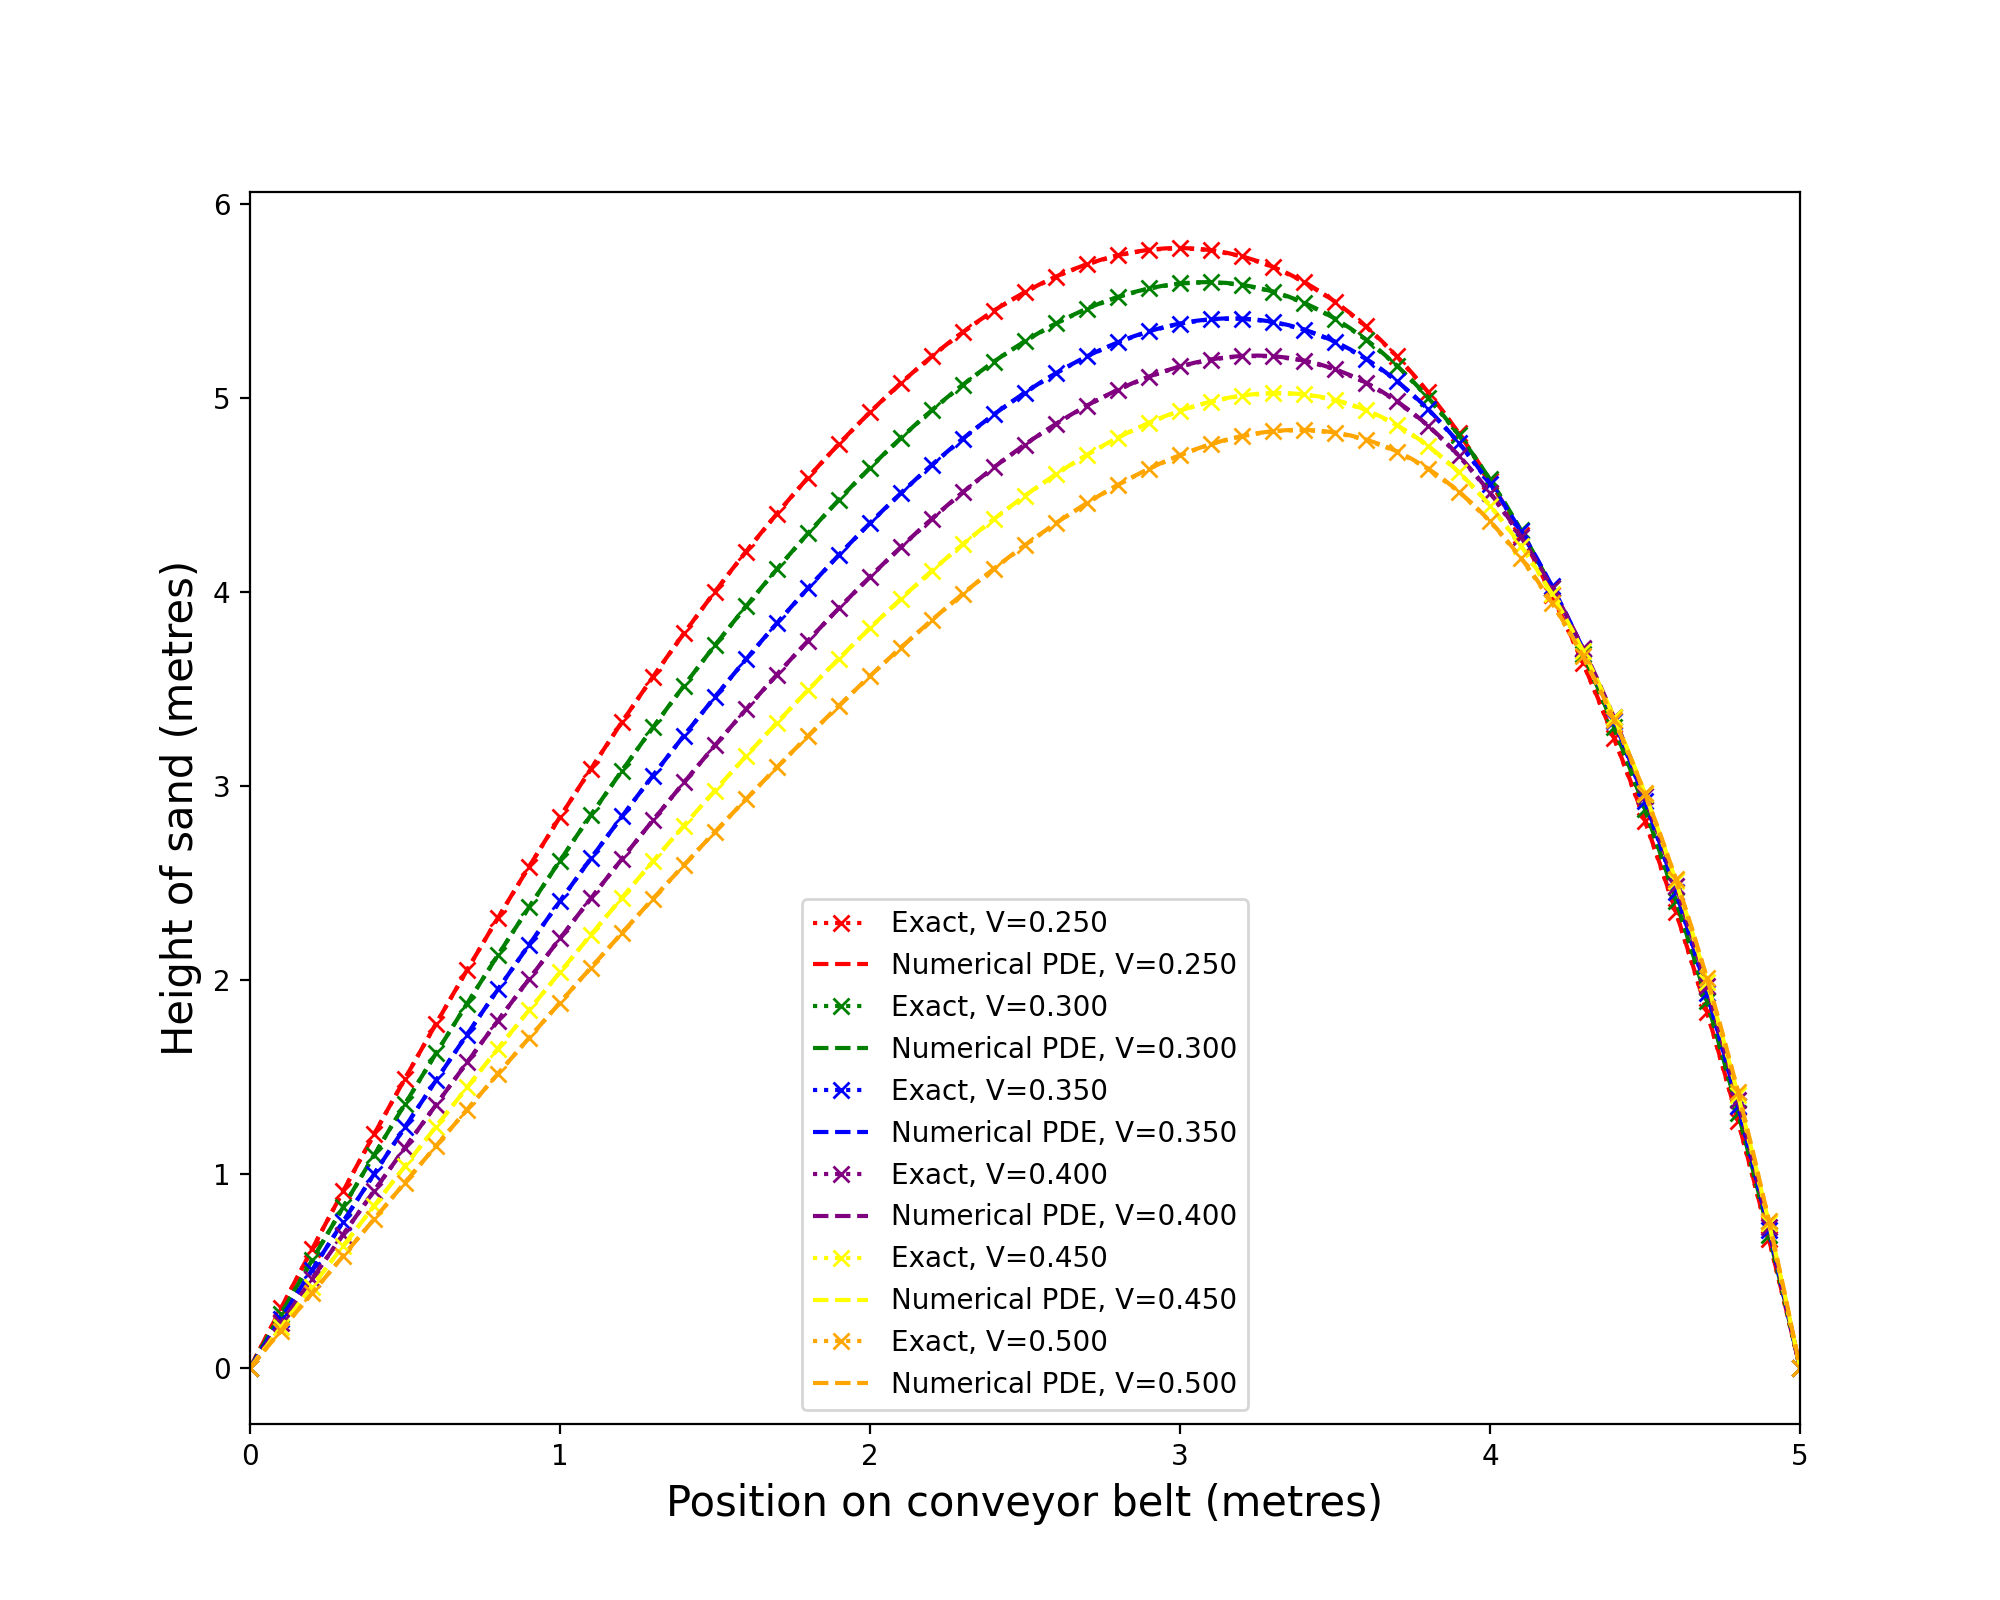
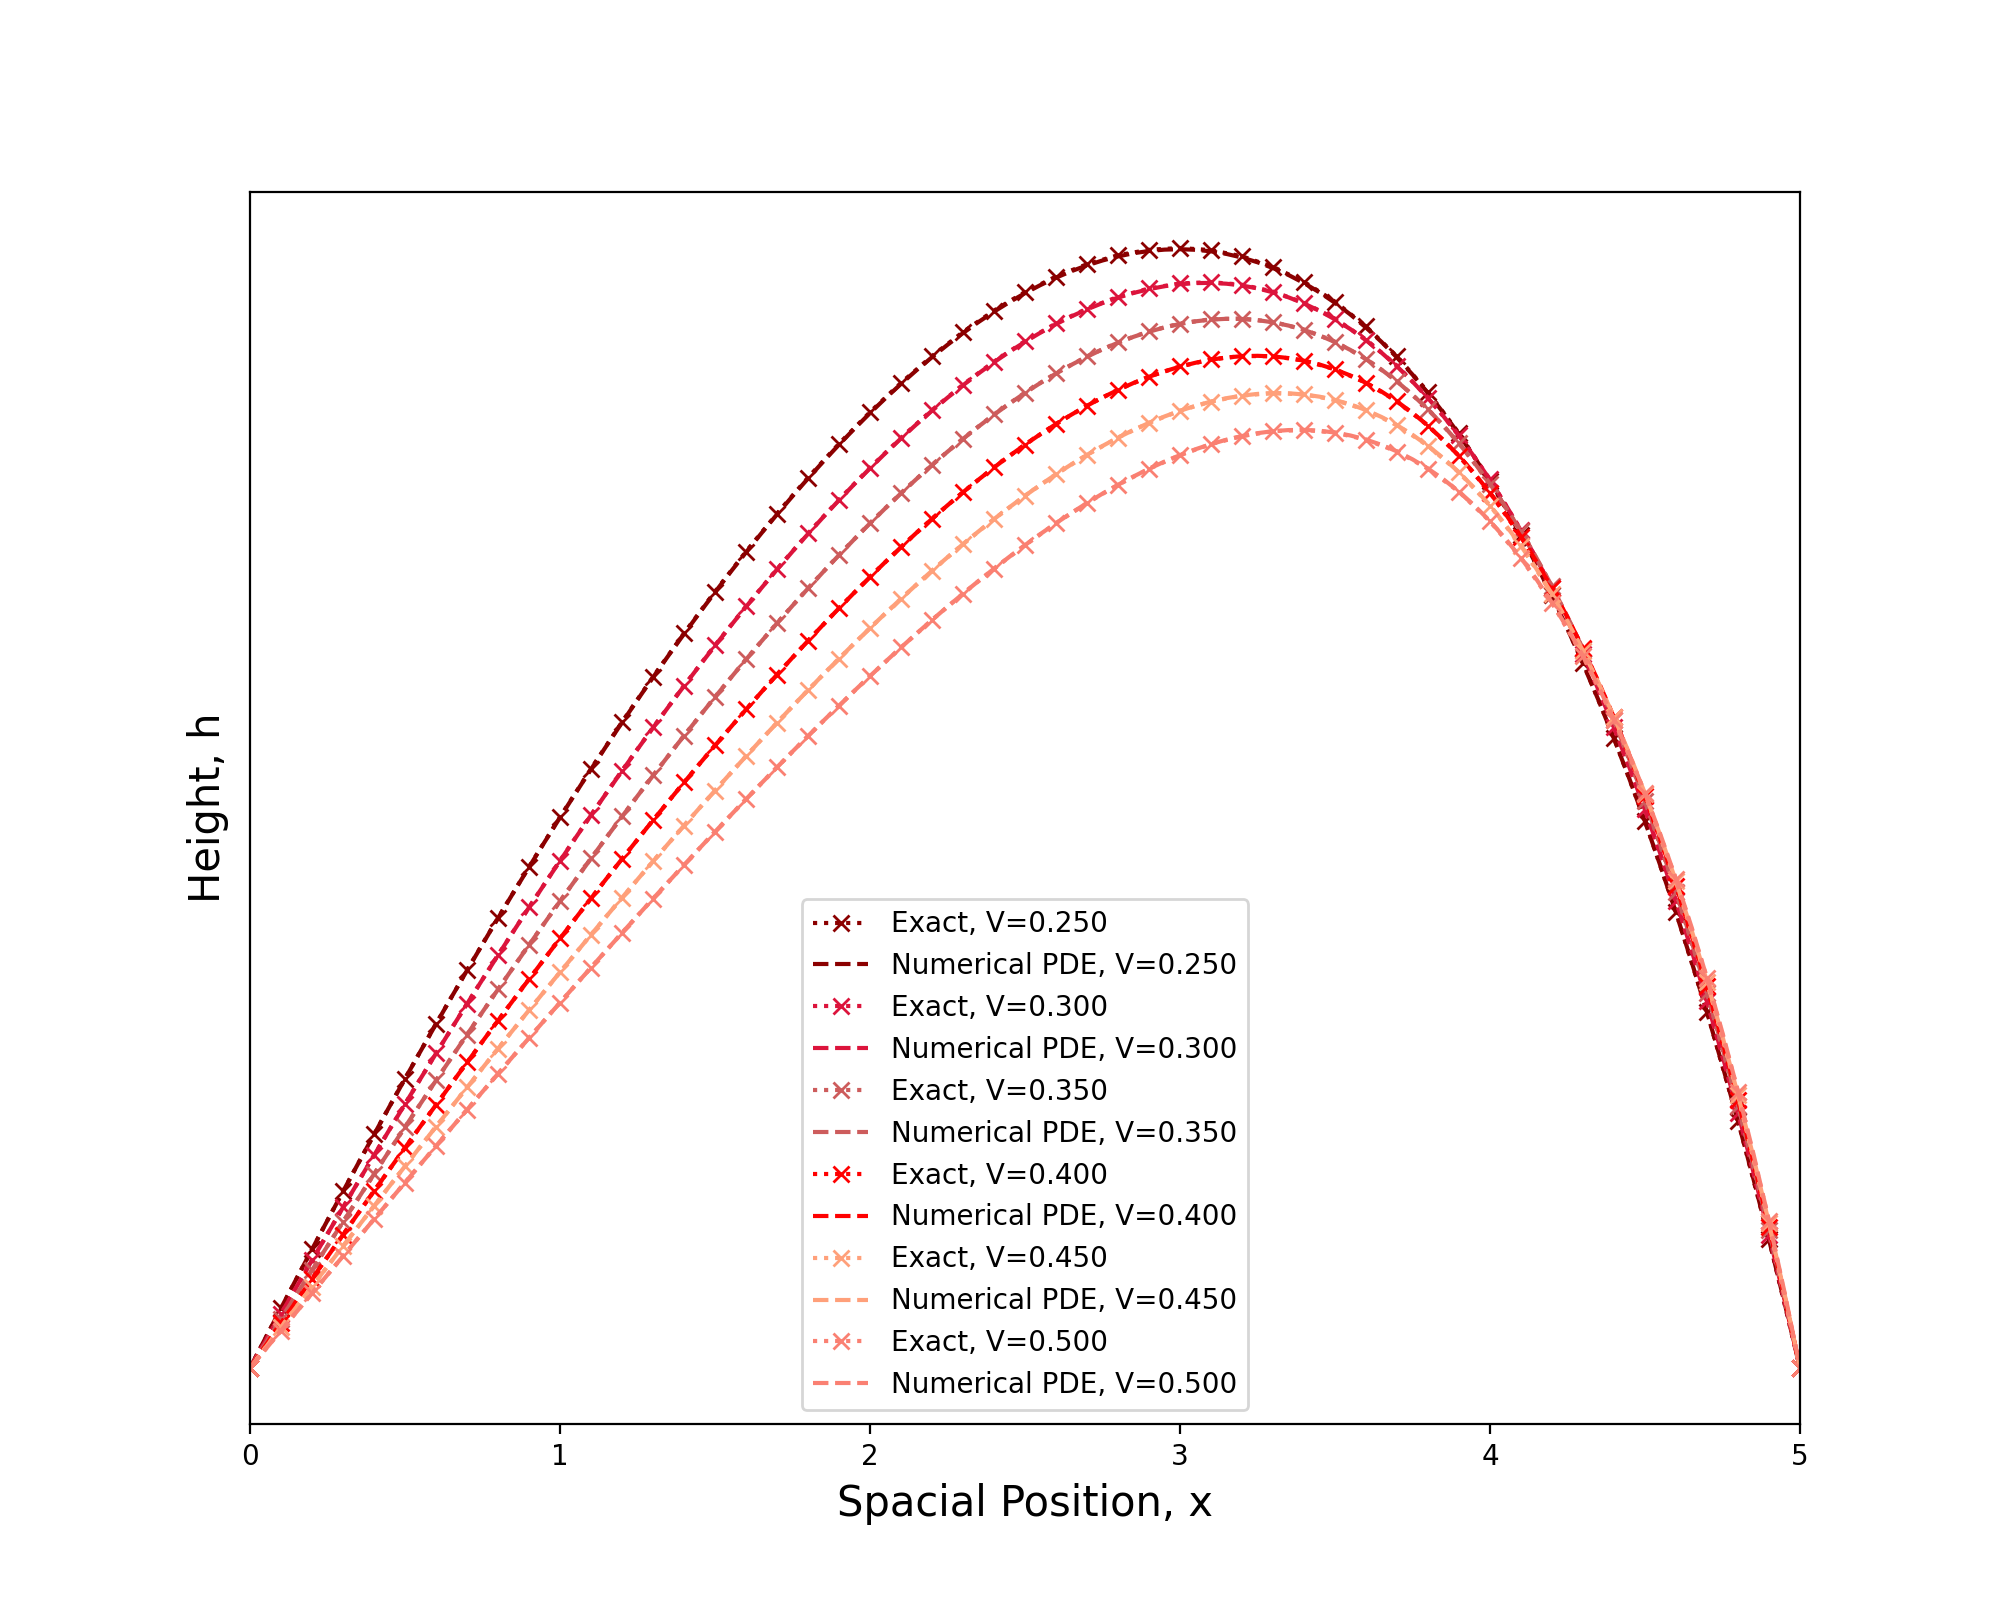
Plotting changed again to be more consistent

diff --git a/Sand.py b/Sand.py
@@ -96,112 +96,93 @@ def numerical(s, V, D, L):
 
 # ===== Plotting =====
 
-# markers =['x', '+', 'o']
-# linestyle = ['dotted', 'dashed', 'dashdot', 'solid']
-# colours = ['r','g','b','purple','yellow','orange'] # make comparison easy
+markers =['x', '+', '1', 'o']
+linestyle = ['solid', 'dotted', 'dashed', 'dashdot', 'solid']
+colours = ['maroon', 'red', 'lightcoral', 'green', 'mediumseagreen', 'palegreen', 'navy', 'blue', 'cornflowerblue'] # make comparison easy
+reds = ['darkred', 'crimson', 'indianred', 'red', 'lightsalmon', 'salmon']
+greens =['darkgreen', 'green', 'seagreen', 'mediumseagreen','springgreen', 'palegreen']
+blues = ['navy', 'royalblue','mediumslateblue', 'dodgerblue', 'skyblue', 'lightsteelblue']
 
-# x_pde, dx, dt = scale(length)
-# x_dots = np.linspace(0, length, N_dots+1)
+x_pde, dx, dt = scale(length)
+x_dots = np.linspace(0, length, N_dots+1)
 
-# plt.figure(1, figsize=(10,8), dpi =200)
-# advection = [0.3, 0.4, 0.5]
-# diffusion = [0.2, 0.6, 1.0]
-# lengths = [5,6,7]
-
-# for i in range(0, len(advection)):
-#     label = "Exact, V=" + "%0.3f" % (advection[i])
-#     plt.plot(x_dots, exact(1.0, advection[i], 0.5, length),color = colours[0], marker = markers[i], label = label)
-#     label = "Numerical PDE, V=" + "%0.3f" % (advection[i])
-#     plt.plot(x_pde, numerical(1.0, advection[i], 0.5, length)[:,-1], color = colours[0], linestyle = linestyle[i], label = label)
-
-#     label = "Exact, D=" + "%0.3f" % (diffusion[i])
-#     plt.plot(x_dots, exact(1.0, 0.25, diffusion[i], 5),color = colours[1], marker = markers[i], label = label)
-#     label = "Numerical PDE, D=" + "%0.3f" % (diffusion[i])
-#     plt.plot(x_pde, numerical(1.0, 0.25, diffusion[i], 5)[:,-1], color = colours[1], linestyle = linestyle[i], label = label)
-
-#     x_pde_2, dx_2, dt_2 = scale(lengths[i])
-#     x_dots_2 = np.linspace(0, lengths[i], N_dots+1)  
-#     label = "Exact, L=" + "%0.3f" % (lengths[i])
-#     plt.plot(x_dots_2, exact(1.0, 0.25, 0.5, lengths[i]),color = colours[2], marker = markers[i], label = label)
-#     label = "Numerical PDE, L=" + "%0.3f" % (lengths[i])
-#     plt.plot(x_pde_2, numerical(1.0, 0.25, 0.5, lengths[i])[:,-1], color = colours[2], linestyle = 'dashed', label = label)
-
-# plt.legend()
-# plt.xlim(0,max(lengths)) # zoom in on area of interest
-# plt.xlabel('Position on conveyor belt (metres)', fontsize = 15)
-# plt.ylabel('Height of sand (metres)', fontsize = 15)
-# plt.savefig('Figure 1.png')
-
-
-plt.figure(2, figsize=(10,8), dpi =200)
+plt.figure(4, figsize=(10,8), dpi =80)
 Nintervals = 50
 
 max_height_adv = []
 interval_size = (0.5-0.25)/Nintervals
 for v in np.arange(0.25, 0.25 + interval_size*(Nintervals+1), interval_size):
     max_height_adv.append(max(exact(1.0, v, 0.5, length)))
-plt.plot(max_height_adv, label = 'Advection')
+plt.plot(max_height_adv, label = 'Advection, V', color = 'red')
 
+interval_size = (1.0-0.5)/Nintervals
 max_height_diff = []
-for d in np.arange(0.04, 0.04 + interval_size*(Nintervals+1), interval_size):
+for d in np.arange(0.5, 0.5 + interval_size*(Nintervals+1), interval_size):
     max_height_diff.append(max(exact(1.0, 0.25, d, length)))
-plt.plot(max_height_diff, label = 'Diffusion')
+plt.plot(max_height_diff, label = 'Diffusion, D', color = 'green')
 
+interval_size = (10-5)/Nintervals
 max_height_length = []
 for l in np.arange(5, 5  + interval_size*(Nintervals+1), interval_size):
     max_height_length.append(max(exact(1.0, 0.25, 0.5, l)))
-plt.plot(max_height_length, label = 'Length')
+plt.plot(max_height_length, label = 'Length, L', color = 'blue')
+
+plt.plot(max(exact(1.0, 0.25, 0.5, length))*np.ones(Nintervals), linestyle = 'dashed', color='Black', label = 'D = 0.5, V = 0.25, L = 5')
+plt.legend()
+plt.yticks([])
+plt.xticks([])
+plt.xlabel('Change in coefficient', fontsize = 16)
+plt.ylabel('Max height of sand pile', fontsize = 16)
+plt.savefig('Figure Height.png')
+
+
+plt.figure(1, figsize=(10, 8), dpi=200)
+#define advection speeds
+advection = [0.25, 0.3, 0.35, 0.4, 0.45, 0.5]
+for i in range(0, len(advection)):
+    label = "Exact, V=" + "%0.3f" % (advection[i])
+    plt.plot(x_dots, exact(1.0, advection[i], 0.5, 5),color = reds[i], linestyle = ':', marker = markers[0], label = label)
+    label = "Numerical PDE, V=" + "%0.3f" % (advection[i])
+    plt.plot(x_pde, numerical(1.0, advection[i], 0.5, 5)[:,-1], color = reds[i], linestyle = 'dashed', label = label)
 
 plt.legend()
-plt.xlabel('Change in variable', fontsize = 15)
-plt.ylabel('Max height', fontsize = 15)
-plt.savefig('Figure 2.png')
+plt.yticks([])
+plt.xlim(0,length) # zoom in on area of interest
+plt.xlabel('Spacial Position, x', fontsize = 15)
+plt.ylabel('Height, h', fontsize = 15)
+plt.savefig('Advection Figure 1.png')
 
+plt.figure(2, figsize=(10, 8), dpi=200)
+#define diffusion coefficients 
+diffusion = [0.2, 0.4, 0.6, 0.8, 1.0]
+for i in range(0, len(diffusion)):
+    label = "Exact, D=" + "%0.3f" % (diffusion[i])
+    plt.plot(x_dots, exact(1.0, 0.25, diffusion[i], 5),color = greens[i], linestyle = ':', marker = markers[1], label = label)
+    label = "Numerical PDE, D=" + "%0.3f" % (diffusion[i])
+    plt.plot(x_pde, numerical(1.0, 0.25, diffusion[i], 5)[:,-1], color = greens[i], linestyle = 'dashed', label = label)
 
-# plt.figure(1, figsize=(10, 8), dpi=200)
-# #define advection speeds
-# advection = [0.25, 0.3, 0.35, 0.4, 0.45, 0.5]
-# for i in range(0, len(advection)):
-#     label = "Exact, V=" + "%0.3f" % (advection[i])
-#     plt.plot(x_dots, exact(x_dots, 1.0, advection[i], 0.5, 5),color = colours[i], linestyle = ':', marker = markers[0], label = label)
-#     label = "Numerical PDE, V=" + "%0.3f" % (advection[i])
-#     plt.plot(x_pde, numerical(1.0, advection[i], 0.5, 5)[:,-1], color = colours[i], linestyle = 'dashed', label = label)
+plt.legend()
+plt.yticks([])
+plt.xlim(0,length) # zoom in on area of interest
+plt.xlabel('Spacial Position, x', fontsize = 15)
+plt.ylabel('Height, h', fontsize = 15)
+plt.savefig('Diffusion Figure 1.png')
 
-# plt.legend()
-# plt.xlim(0,length) # zoom in on area of interest
-# plt.xlabel('Position on conveyor belt (metres)', fontsize = 15)
-# plt.ylabel('Height of sand (metres)', fontsize = 15)
-# plt.savefig('Advection Figure 1.png')
+plt.figure(3, figsize=(10, 8), dpi=200)
+#define lengths
+lengths = [5,6,7,8,9,10]
+for i in range(0, len(lengths)):
+    x_pde, dx, dt = scale(lengths[i])
+    x_dots = np.linspace(0, lengths[i], N_dots+1)  
+    label = "Exact, L=" + "%0.3f" % (lengths[i])
+    plt.plot(x_dots, exact(1.0, 0.25, 0.5, lengths[i]),color = blues[i], linestyle = ':', marker = markers[1], label = label)
+    label = "Numerical PDE, L=" + "%0.3f" % (lengths[i])
+    plt.plot(x_pde, numerical(1.0, 0.25, 0.5, lengths[i])[:,-1], color = blues[i], linestyle = 'dashed', label = label)
 
-# plt.figure(2, figsize=(10, 8), dpi=200)
-# #define diffusion coefficients 
-# diffusion = [0.2, 0.4, 0.6, 0.8, 1.0]
-# for i in range(0, len(diffusion)):
-#     label = "Exact, D=" + "%0.3f" % (diffusion[i])
-#     plt.plot(x_dots, exact(x_dots, 1.0, 0.25, diffusion[i], 5),color = colours[i], linestyle = ':', marker = markers[1], label = label)
-#     label = "Numerical PDE, D=" + "%0.3f" % (diffusion[i])
-#     plt.plot(x_pde, numerical(1.0, 0.25, diffusion[i], 5)[:,-1], color = colours[i], linestyle = 'dashed', label = label)
-
-# plt.legend()
-# plt.xlim(0,5) # zoom in on area of interest
-# plt.xlabel('Position on conveyor belt (metres)', fontsize = 15)
-# plt.ylabel('Height of sand (metres)', fontsize = 15)
-# plt.savefig('Diffusion Figure 1.png')
-
-# plt.figure(3, figsize=(10, 8), dpi=200)
-# #define lengths
-# lengths = [5,6,7,8,9,10]
-# for i in range(0, len(lengths)):
-#     x_pde, dx, dt = scale(lengths[i])
-#     x_dots = np.linspace(0, lengths[i], N_dots+1)  
-#     label = "Exact, L=" + "%0.3f" % (lengths[i])
-#     plt.plot(x_dots, exact(x_dots, 1.0, 0.25, 0.5, lengths[i]),color = colours[i], linestyle = ':', marker = markers[1], label = label)
-#     label = "Numerical PDE, L=" + "%0.3f" % (lengths[i])
-#     plt.plot(x_pde, numerical(1.0, 0.25, 0.5, lengths[i])[:,-1], color = colours[i], linestyle = 'dashed', label = label)
-
-# plt.legend()
-# plt.xlim(0,10) # zoom in on area of interest
-# plt.xlabel('Position on conveyor belt (metres)', fontsize = 15)
-# plt.ylabel('Height of sand (metres)', fontsize = 15)
-# plt.savefig('Length Figure 1.png')
+plt.legend()
+plt.yticks([])
+plt.xlim(0,max(lengths)) # zoom in on area of interest
+plt.xlabel('Spacial Position, x', fontsize = 15)
+plt.ylabel('Height, h', fontsize = 15)
+plt.savefig('Length Figure 1.png')
 
